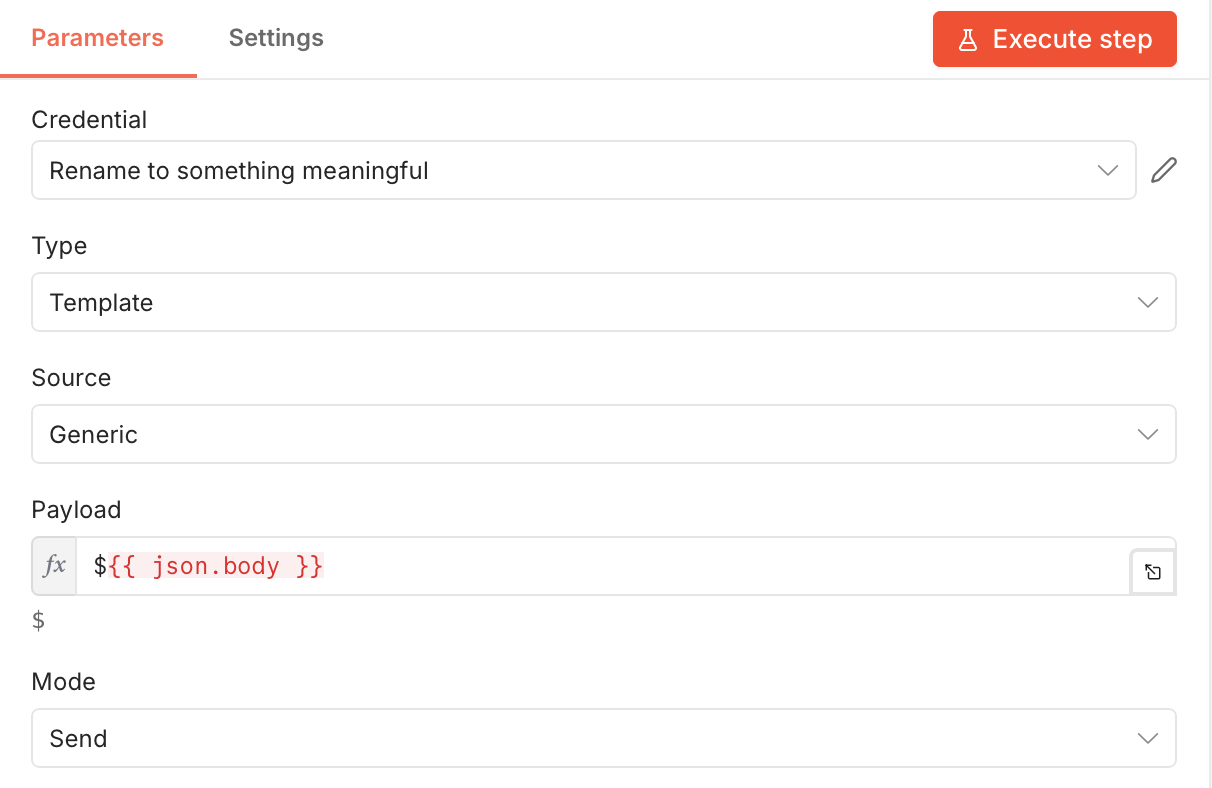
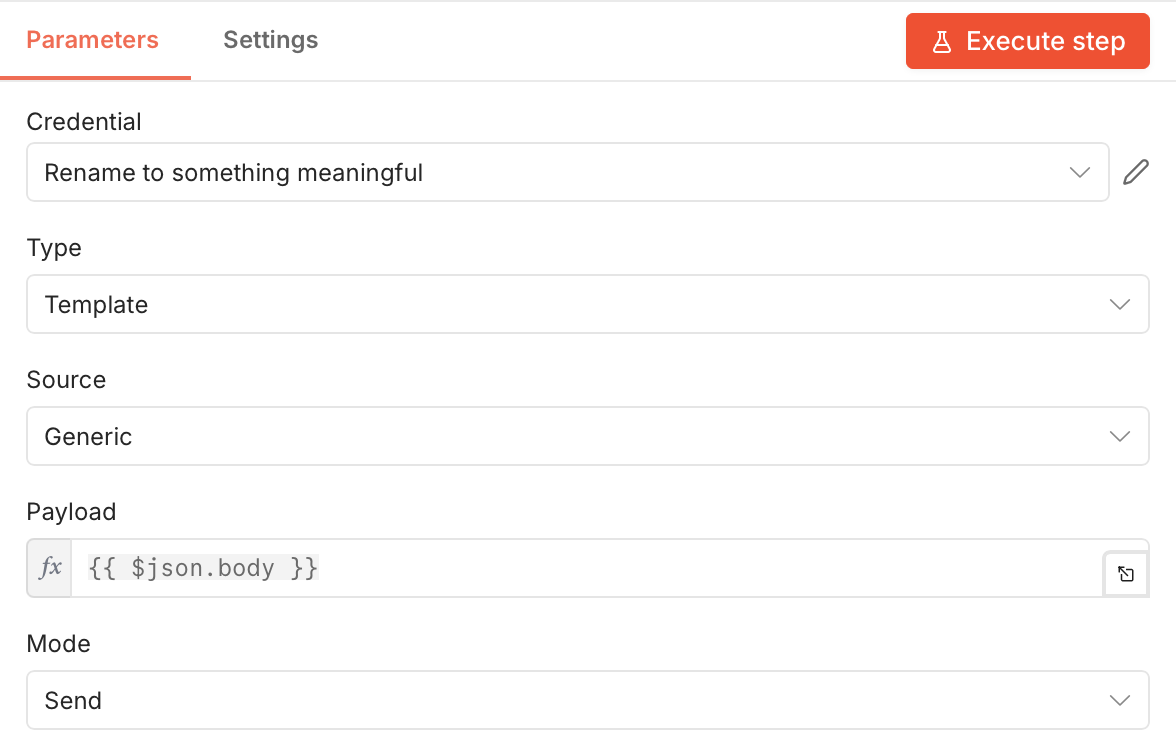
updated screenshot, reorganized url section

diff --git a/docs/webhooks/create-workflow.md b/docs/webhooks/create-workflow.md
@@ -114,14 +114,6 @@ The execution of your test work flow is available in the logs tab found at the b
 ![Screenshot of the n8n workspace with the logs tab expanded. The logs tab is found on the bottom left side of the workspace. It is circled in red in the screenshot. When the logs tab is expanded the nodes are listed. Clicking on a node gives details of the input, output, and execution status.](../images/n8n-logs.png)
 
 ### Test vs Production URLs
-Test and Production URLs should not be used to separate production and non-production environments. 
-
-Recommended approach:
-
-* Create separate Teams channels for production and non-production notifications
-* Use a code node to determine whether the alert is prod or not, and filter them with an if node
-
-![Screenshot of an n8n workspace using a JavaScript code node folled by an if node to filter messages to Prod and Non-Prod channels.](../images/n8n-prod-and-non-prod-filtering.png)
 
 **Test URL**
 
@@ -135,6 +127,17 @@ Recommended approach:
 * Active only after publishing workflow
 * Runs continuously in background
 * Intended for real integrations
+
+**Separate production and non-production environments**
+
+Test and Production URLs should not be used to separate production and non-production environments. 
+
+Recommended approach:
+
+* Create separate Teams channels for production and non-production notifications
+* Use a code node to determine whether the alert is prod or not, and filter them with an if node
+
+![Screenshot of an n8n workspace using a JavaScript code node folled by an if node to filter messages to Prod and Non-Prod channels.](../images/n8n-prod-and-non-prod-filtering.png)
 
 ## Step 4: Publish the workflow
 